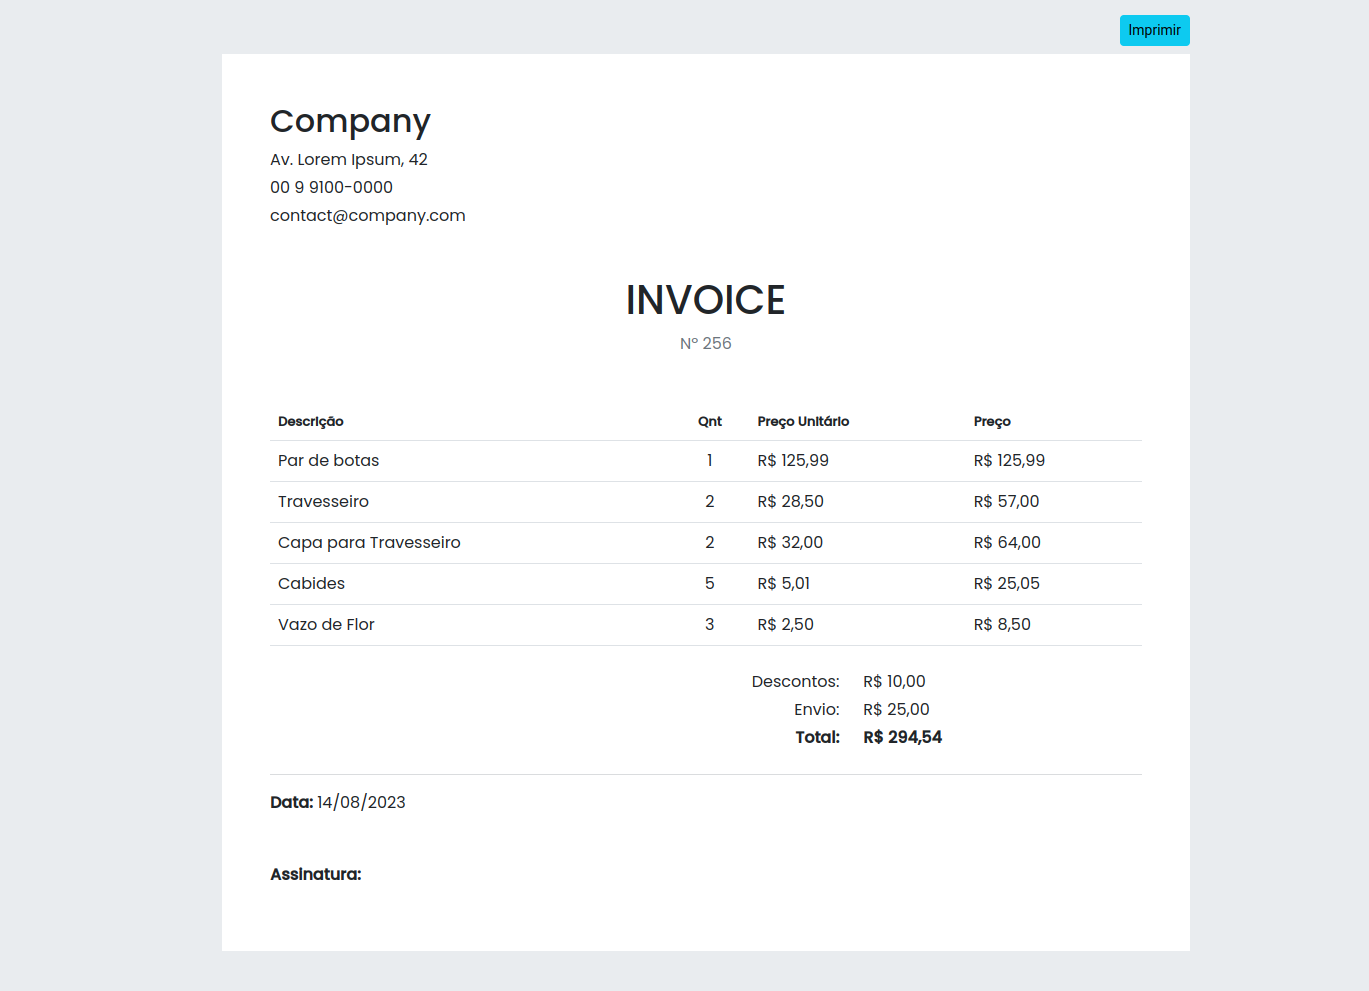
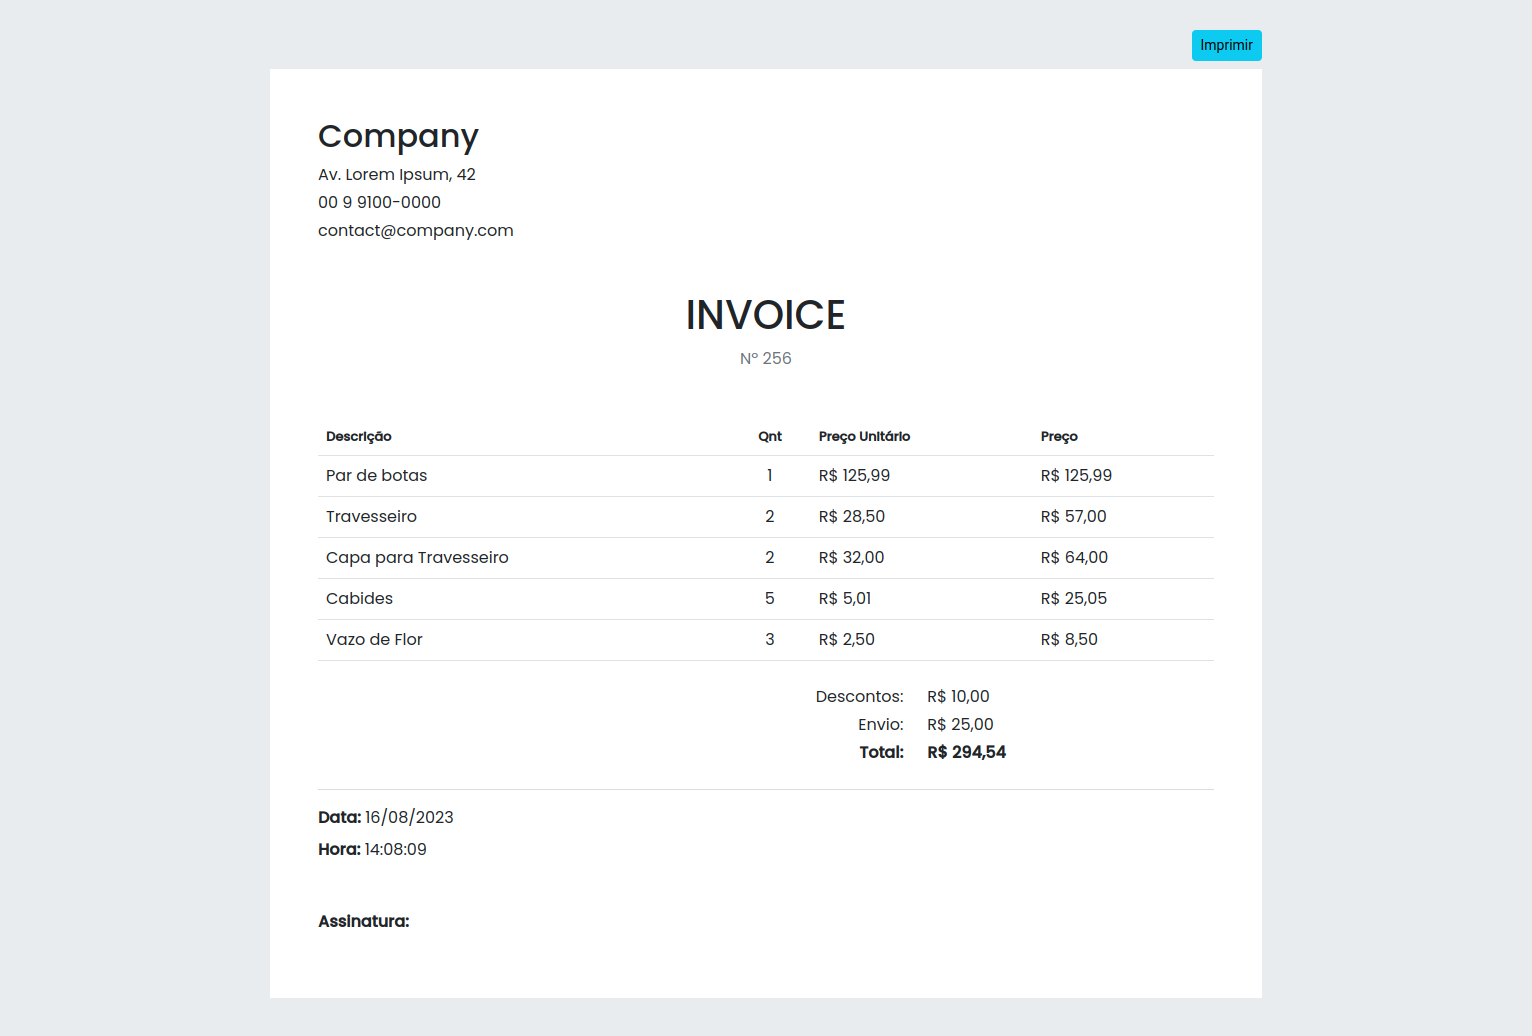
Feat: implement time at detailed-purchase-invoice
Also, updated documentation preview image

diff --git a/web/templates/detailed-purchase-invoice.html b/web/templates/detailed-purchase-invoice.html
@@ -49,8 +49,11 @@
 
     <footer>
         <hr class="border-secondary">
-        <p>
+        <p class="mb-2">
             <strong>Data:</strong> {{ .Date | dateFormat }}
+        </p>
+        <p>
+            <strong>Hora:</strong> {{ .Date | timeFormat }}
         </p>
         <p class="mt-5">
             <strong>Assinatura:</strong>
